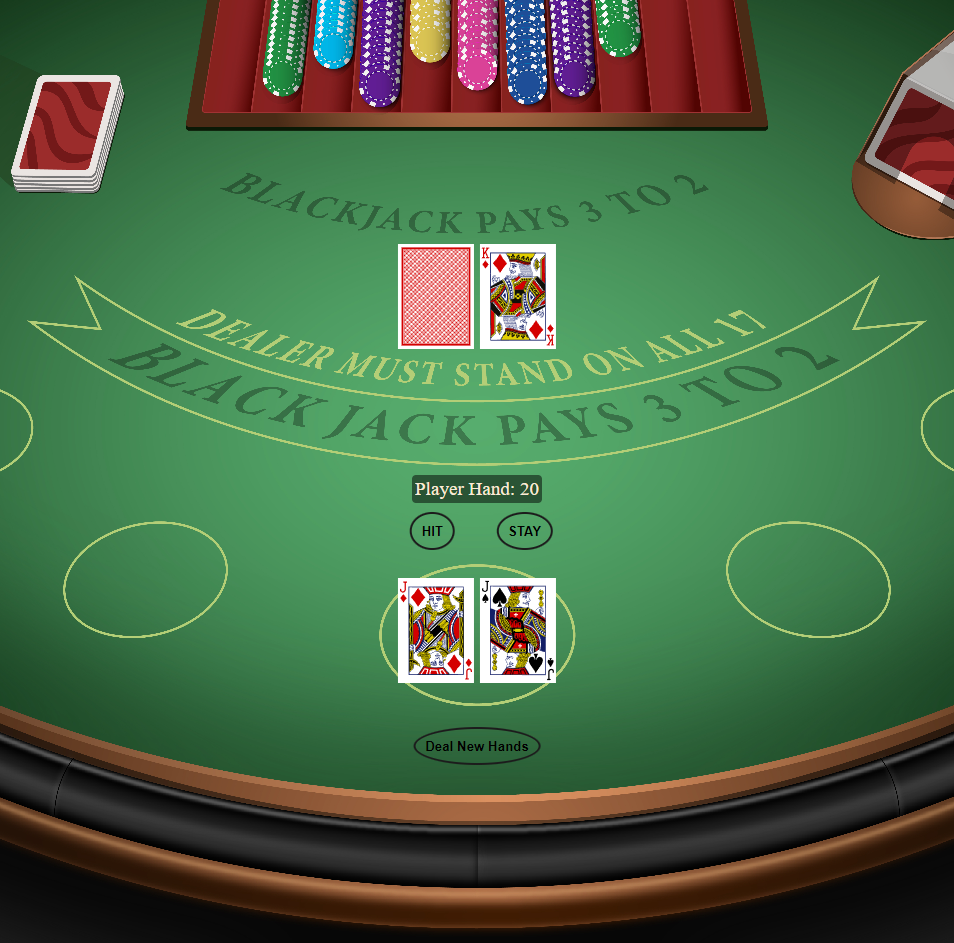
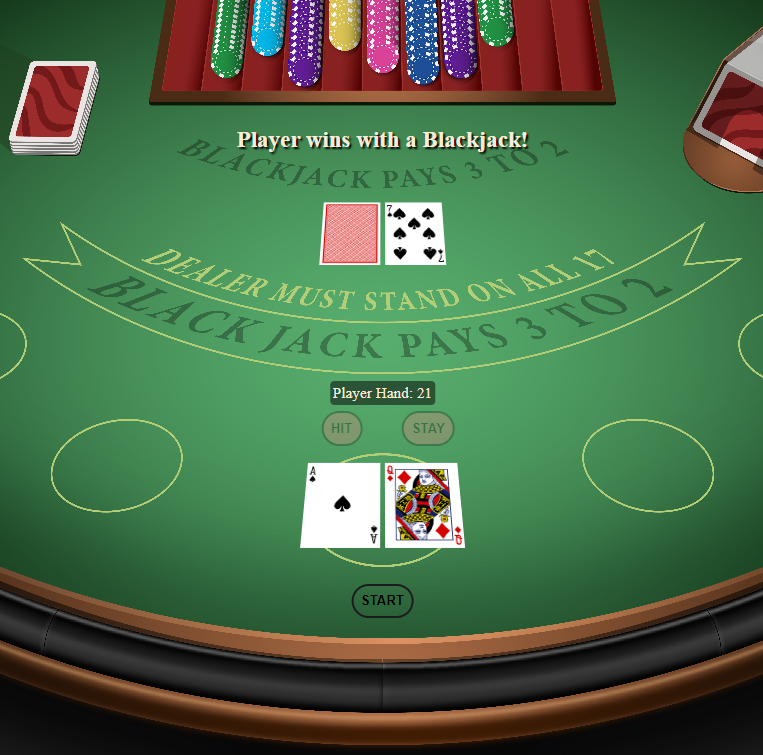
Adjust Button Styling and Update Screenshot

diff --git a/js/app.js b/js/app.js
@@ -35,8 +35,10 @@ startBtn.addEventListener('click', () => {
   dealCards()
   showSums()
   checkForWinner()
-  hitBtn.disabled = false
-  stayBtn.disabled = false
+  if (messageContent.innerHTML !== "Player wins with a Blackjack!") {
+    hitBtn.disabled = false
+    stayBtn.disabled = false
+  }
 })
 
 /*-------------------------------Functions------------------------------------*/

diff --git a/css/style.css b/css/style.css
@@ -60,7 +60,7 @@ h1#message {
 
 button {
   position: absolute;
-  border-radius: 100%;
+  border-radius: 50px;
   padding: 1vw;
   background-color: #11ffee00;
   transition: background-color 0.3s;
